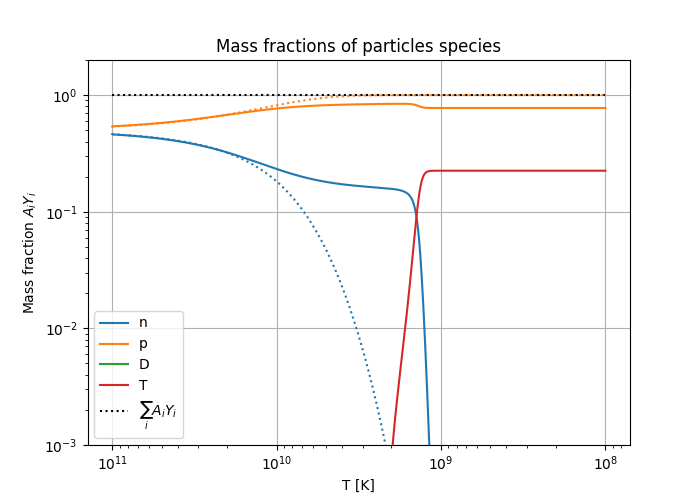
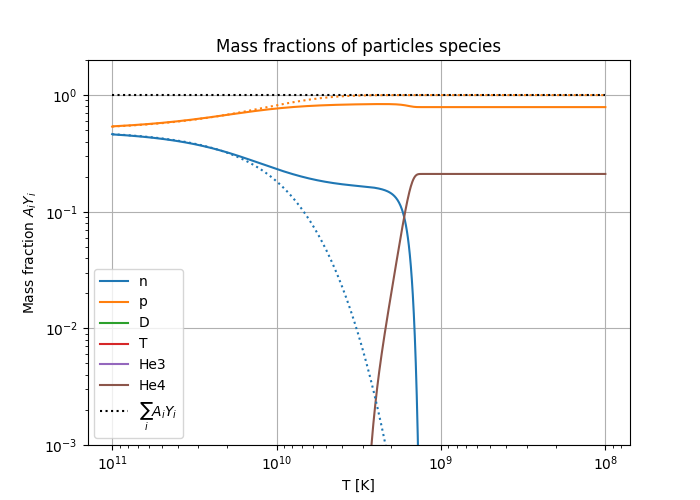
implemented Be7, need to fix bug in potentially He4

diff --git a/Projects/Project 2/bbn/bbn.py b/Projects/Project 2/bbn/bbn.py
@@ -330,18 +330,34 @@ class BBN:
             )
 
             # new changes
-            change_lhs = Y_p * Y_Li7 * rate_pLi7_to_nBe7 - Y_n * Y_Be7 * rate_nBe7_to_pLi7
+            change_lhs = (
+                Y_p * Y_Li7 * rate_pLi7_to_nBe7 - Y_n * Y_Be7 * rate_nBe7_to_pLi7
+            )
             change_rhs = -change_lhs
 
             # Update ODE's
             dY[0] += change_lhs
-            dY[6] += change_lhs
+            dY[7] += change_lhs
             dY[1] += change_rhs
-            dY[7] += change_rhs
+            dY[6] += change_rhs
 
-            # TODO: b.20
+            # (n + Be7 <-> He4 + He4) (b.21)
+            rate_nBe7_to_He4He4, rate_He4He4_to_nBe7 = self.RR.get_nBe7_to_He4He4(
+                T_9, self.background.rho_b(T)
+            )
 
-        return -dY / self.background.H(T)
+            # new changes
+            a = Y_He4 * Y_He4 * rate_He4He4_to_nBe7
+            b = Y_n * Y_Be7 * rate_nBe7_to_He4He4
+            change_lhs = 0.5 * a - b
+            change_rhs = 2 * b - a
+
+            # Update ODE's
+            dY[0] += change_lhs
+            dY[7] += change_lhs
+            dY[5] += change_rhs
+
+        return -dY / self.background.H(T)  # Multiply every term by -1/H
 
     def _Y_n_equil(self, T: float) -> float:
         """Thermal equilibrium value of relative number density of neutrons Y_n, equation (16) of the project.

diff --git a/Projects/Project 2/bbn/reaction_rates.py b/Projects/Project 2/bbn/reaction_rates.py
@@ -424,7 +424,8 @@ class ReactionRates:
             1.42e9
             * rho_b
             * T_9 ** (-2 / 3)
-            * np.exp(-8.47 / T_9)(1 + 0.0493 * T_9 ** (1 / 3))
+            * np.exp(-8.47 / T_9)
+            * (1 + 0.0493 * T_9 ** (1 / 3))
         )
 
         rate_He4He4_to_pLi7 = 4.64 * rate_pLi7_to_He4He4 * np.exp(-201.3 / T_9)
@@ -449,3 +450,22 @@ class ReactionRates:
         rate_pLi7_to_nBe7 = rate_nBe7_to_pLi7 * np.exp(-19.07 / T_9)
 
         return rate_nBe7_to_pLi7, rate_pLi7_to_nBe7
+
+    def get_nBe7_to_He4He4(self, T_9: float, rho_b: float) -> tuple[float, float]:
+        """Describes the reaction rate of (n + Be7 <-> He4 + He4),
+        described in b.21 of table 2 of the project reference material:
+        https://www.uio.no/studier/emner/matnat/astro/AST3220/v24/undervisningsmateriale/wagoner-fowler-hoyle.pdf
+
+        arguments:
+            T_9: temperature [10^9 K]
+            rho_b: baryon density
+
+        returns:
+            the reaction rate of (n + Be7 -> He4 + He4), and the reverse
+        """
+
+        rate_nBe7_to_He4He4 = 1.2e7 * rho_b * T_9
+
+        rate_He4He4_to_nBe7 = 4.64 * rate_nBe7_to_He4He4 * np.exp(-220.4 / T_9)
+
+        return rate_nBe7_to_He4He4, rate_He4He4_to_nBe7

diff --git a/Projects/Project 2/problem_scripts/problem_i.py b/Projects/Project 2/problem_scripts/problem_i.py
@@ -10,7 +10,7 @@ from bbn import BBN, FIG_DIR
 
 if __name__ == "__main__":
     # Variables
-    N_species = 4  # number of interacting atom species
+    N_species = 8  # number of interacting atom species
     T_i = 1e11  # initial temperature [K]
     T_f = 1e8  # final temperature [K]
 
